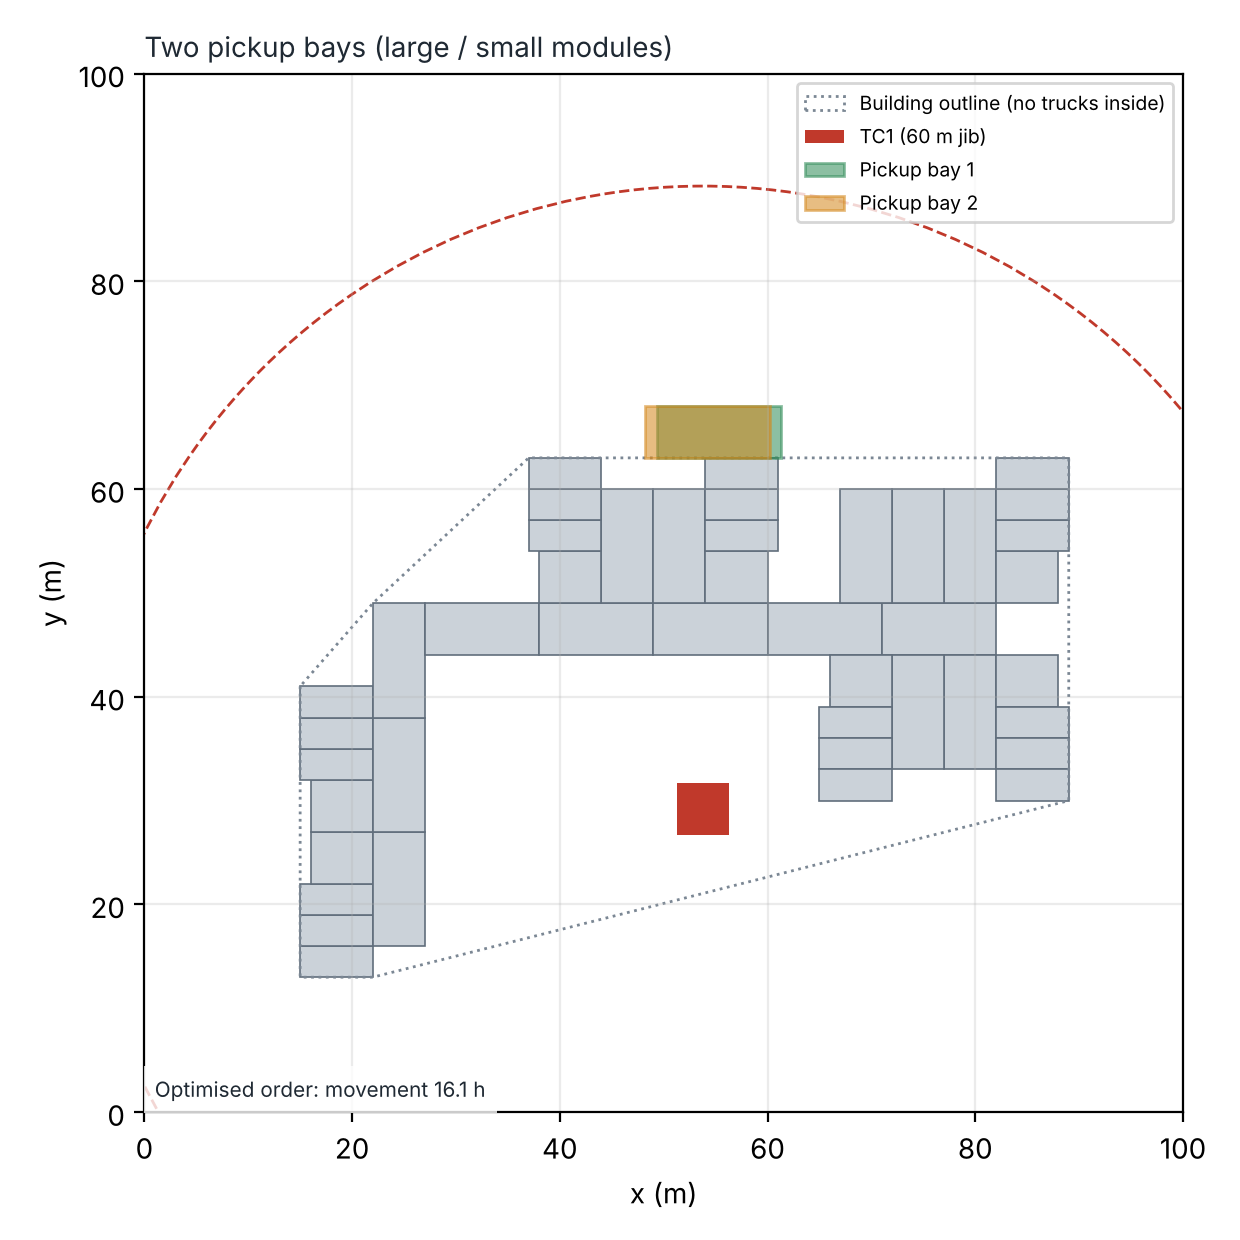
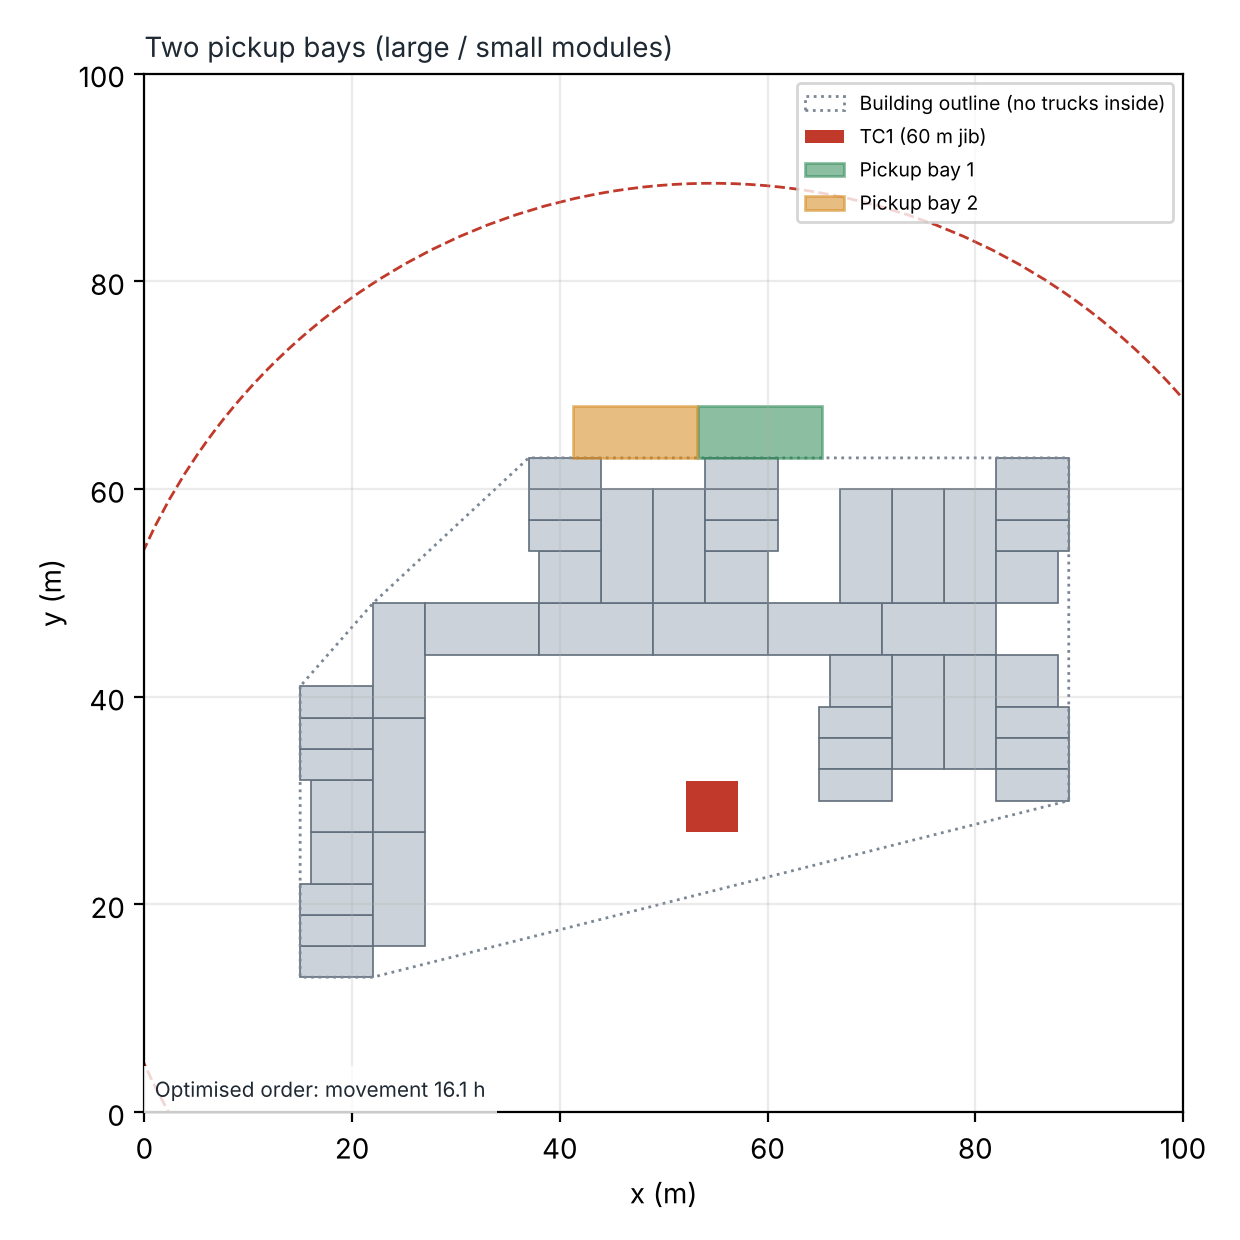
Fix two-crane penalty and pickup reach, bay-overlap rule; re-run E5/E6
Claude-Session: https://claude.ai/code/session_01NE1K9y4rFVpFyLW2MNyQqh

diff --git a/experiments/rerun_e5.py b/experiments/rerun_e5.py
@@ -1,0 +1,67 @@
+"""Re-run only E5 (sequence + two pickup bays) and update outputs.   python experiments/rerun_e5.py"""
+import os, sys, json
+import numpy as np, pandas as pd
+ROOT = os.path.dirname(os.path.dirname(os.path.abspath(__file__))); sys.path.insert(0, ROOT)
+from crane_opt.config import realistic_settings, GASettings
+from crane_opt.data import load_components
+from crane_opt.model import Problem
+from crane_opt import optimizers as O
+from crane_opt import sequence as S
+from crane_opt import plotting as PL
+Q = False; OUT = os.path.join(ROOT, "outputs"); FIG = os.path.join(OUT, "figures")
+crR, moR, siR, _ = realistic_settings()
+compsR = load_components(os.path.join(ROOT, "data", "components_case3.csv"), storeys=12, floor_height=moR.floor_height)
+pR = Problem(compsR, crR, moR, siR)
+summary = json.load(open(os.path.join(OUT, "summary.json"))); tables = {}
+xR = np.array(summary["realistic"]["x"])
+def log(m): print(m, flush=True)
+# =====================================================================
+# E5  Sequence + two pickup bays
+# =====================================================================
+log("E5 sequence / two bays")
+rng = np.random.default_rng(0)
+# (a) single bay: order makes (almost) no difference
+xs = xR
+pR.set_order(S.index_order(pR)); base1 = pR.evaluate(xs[:2], [xs[2:]])["movement"]
+rand1 = []
+for k in range(20):
+    pR.set_order(S.random_order(pR, rng)); rand1.append(pR.evaluate(xs[:2], [xs[2:]])["movement"])
+# (b) two bays by module type
+assign_row = (compsR["type"].to_numpy() == "small").astype(int)       # large -> bay1, small -> bay2
+pR.set_order(S.index_order(pR))
+ga2 = O.run_ga(pR, K=2, assign=assign_row[pR.order], settings=GASettings(seed=0))
+x2 = ga2["x"]; C2 = x2[:2]; P2 = x2[2:].reshape(-1, 2)
+for it in range(2):    # re-optimise positions with the better (grouped) order
+    pR.set_order(S.grouped_order(pR, C2, assign_row))
+    ga2 = O.run_ga(pR, K=2, assign=assign_row[pR.order], settings=GASettings(seed=it + 1))
+    if ga2["res"]["feasible"]:
+        x2 = ga2["x"]; C2 = x2[:2]; P2 = x2[2:].reshape(-1, 2)
+seq_rows = []
+def cost(order):
+    pR.set_order(order); return pR.evaluate(C2, P2, assign_row[order])
+o_idx = S.index_order(pR); r_idx = cost(o_idx)
+r_rand = [cost(S.random_order(pR, rng))["movement"] for _ in range(20)]
+o_grp = S.grouped_order(pR, C2, assign_row); r_grp = cost(o_grp)
+o_imp, _ = S.improve_order(pR, C2, P2, assign_row, o_grp, iters=500 if Q else 6000)
+r_imp = cost(o_imp)
+seq_rows += [
+    dict(case="1 bay, listed order", movement_h=base1 / 3600, note="v2 realistic optimum layout"),
+    dict(case="1 bay, 20 random orders (mean)", movement_h=np.mean(rand1) / 3600,
+         note=f"spread max-min = {max(rand1) - min(rand1):.1f} s (order-independent)"),
+    dict(case="2 bays, listed order", movement_h=r_idx["movement"] / 3600, note="large/small modules alternate"),
+    dict(case="2 bays, random truck order (mean of 20)", movement_h=np.mean(r_rand) / 3600, note=""),
+    dict(case="2 bays, grouped by bay (heuristic)", movement_h=r_grp["movement"] / 3600, note=""),
+    dict(case="2 bays, optimised order (local search)", movement_h=r_imp["movement"] / 3600, note="storey precedence kept"),
+]
+tables["E5_sequence"] = pd.DataFrame(seq_rows)
+summary["sequence"] = {r["case"]: r["movement_h"] for r in seq_rows}
+summary["two_bays_x"] = list(np.round(x2, 2)); summary["two_bays_feasible"] = bool(r_imp["feasible"])
+PL.layout(pR, x2, "Two pickup bays (large / small modules)", os.path.join(FIG, "E5_layout_two_bays.png"), K=2,
+          note=f"Optimised order: movement {r_imp['movement']/3600:.1f} h")
+pR.set_order(S.index_order(pR))
+
+
+print(tables["E5_sequence"].to_string(index=False)); print("bays", np.round(x2, 2), "feasible", r_imp["feasible"])
+with pd.ExcelWriter(os.path.join(OUT, "v2_results.xlsx"), mode="a", if_sheet_exists="replace", engine="openpyxl") as w:
+    tables["E5_sequence"].to_excel(w, sheet_name="E5_sequence", index=False)
+json.dump(summary, open(os.path.join(OUT, "summary.json"), "w"), indent=2, default=str)

diff --git a/experiments/rerun_e6.py b/experiments/rerun_e6.py
@@ -1,0 +1,41 @@
+"""Re-run only E6 (two cranes) and update outputs/v2_results.xlsx + figure.
+    python experiments/rerun_e6.py
+"""
+import os, sys, json
+import numpy as np, pandas as pd
+ROOT = os.path.dirname(os.path.dirname(os.path.abspath(__file__))); sys.path.insert(0, ROOT)
+from dataclasses import replace
+from crane_opt.config import realistic_settings
+from crane_opt.data import load_components
+from crane_opt.model import Problem
+from crane_opt.multicrane import TwoCraneProblem, optimise_two_cranes
+from crane_opt import plotting as PL
+OUT = os.path.join(ROOT, "outputs"); FIG = os.path.join(OUT, "figures")
+crR, moR, siR, _ = realistic_settings()
+comps = load_components(os.path.join(ROOT, "data", "components_case3.csv"), storeys=12, floor_height=moR.floor_height)
+summ = json.load(open(os.path.join(OUT, "summary.json")))
+xR = np.array(summ["realistic"]["x"]); single_h = summ["realistic"]["total_h"]
+c1 = replace(crR, name="TC1", mast_height_rank=1)
+c2 = replace(crR, name="TC2", radius=45.0, max_load_t=25.0, load_moment_tm=900.0, mast_height_rank=0)
+rows = [dict(case="1 crane (v2 optimum)", makespan_h=single_h, waiting_h=0, TC1_lifts=len(comps), TC2_lifts=0,
+             TC1_util=1.0, TC2_util=0.0, feasible=True, layout=str(np.round(xR, 1)))]
+best = None
+for interf in (True, False):
+    tp = TwoCraneProblem(comps, c1, c2, moR, siR, interference=interf)
+    rs = [optimise_two_cranes(tp, pop=120, gens=250, seed=s) for s in range(3)]
+    b = min(rs, key=lambda r: r["res"]["fitness"]); r = b["res"]
+    print(interf, round(r["makespan"] / 3600, 2), r["feasible"], r["violation"], np.round(b["x"], 1), flush=True)
+    if interf: best = (tp, b)
+    rows.append(dict(case="2 cranes, shared-zone lock" if interf else "2 cranes, no interference (ideal bound)",
+                     makespan_h=r["makespan"] / 3600, waiting_h=r["wait"] / 3600, TC1_lifts=r["count"][0], TC2_lifts=r["count"][1],
+                     TC1_util=r["busy"][0] / r["makespan"], TC2_util=r["busy"][1] / r["makespan"], feasible=bool(r["feasible"]),
+                     layout=str(np.round(b["x"], 1))))
+df = pd.DataFrame(rows); print(df.to_string(index=False))
+xl = os.path.join(OUT, "v2_results.xlsx")
+with pd.ExcelWriter(xl, mode="a", if_sheet_exists="replace", engine="openpyxl") as w:
+    df.to_excel(w, sheet_name="E6_two_cranes", index=False)
+summ["two_cranes"] = rows
+json.dump(summ, open(os.path.join(OUT, "summary.json"), "w"), indent=2, default=str)
+tp, b = best
+PL.layout(tp.p[0], b["x"], "Two-crane layout (shared zone = overlap of jib circles)", os.path.join(FIG, "E6_layout_two_cranes.png"),
+          cranes=[c1, c2], note=f"Makespan {b['res']['makespan']/3600:.1f} h vs {single_h:.1f} h with one crane")

diff --git a/crane_opt/multicrane.py b/crane_opt/multicrane.py
@@ -44,7 +44,7 @@ class TwoCraneProblem:
         hi = [b1[1], b1[3]] * 2 + [b2[1], b2[3]] * 2
         return np.array(lo, float), np.array(hi, float)
 
-    def simulate(self, x, penalty=1e3, detail=False):
+    def simulate(self, x, penalty=1e5, detail=False):
         x = np.asarray(x, float)
         C = [x[0:2], x[2:4]]; P = [x[4:6], x[6:8]]
         viol = 0.0
@@ -59,7 +59,8 @@ class TwoCraneProblem:
                 if pr.crane.use_load_chart else np.inf
             ok.append((r <= pr.crane.radius) & (pr.W <= cap))
             v = pr.violations(C[j], [P[j]])
-            v.pop("reach")                       # reach handled per module below
+            v.pop("reach")                       # module reach handled per module below
+            viol += max(0.0, np.hypot(*(P[j] - C[j])) - pr.crane.radius)   # own pickup within own jib
             viol += sum(float(np.sum(a)) for a in v.values())
             # other crane's pickup bay must not overlap this one
         viol += max(0.0, 12.0 - np.hypot(*(P[0] - P[1])))

diff --git a/crane_opt/model.py b/crane_opt/model.py
@@ -157,6 +157,15 @@ class Problem:
                       + self.hull_eq[:, 2]).max(-1)
                 need = min(st.pickup_w, st.pickup_l) / 2
                 v["access"] = v.get("access", 0.0) + np.maximum(0, need - sd)
+        # several pickup bays must not overlap each other
+        if len(P_list) > 1:
+            ov = 0.0
+            for a in range(len(P_list)):
+                for b in range(a + 1, len(P_list)):
+                    d = np.asarray(P_list[a], float) - np.asarray(P_list[b], float)
+                    ox = st.pickup_w - np.abs(d[..., 0]); oy = st.pickup_l - np.abs(d[..., 1])
+                    ov = ov + np.minimum(np.maximum(ox, 0), np.maximum(oy, 0))
+            v["bay_overlap"] = ov
         v["load"] = 0.0
         return v
 
